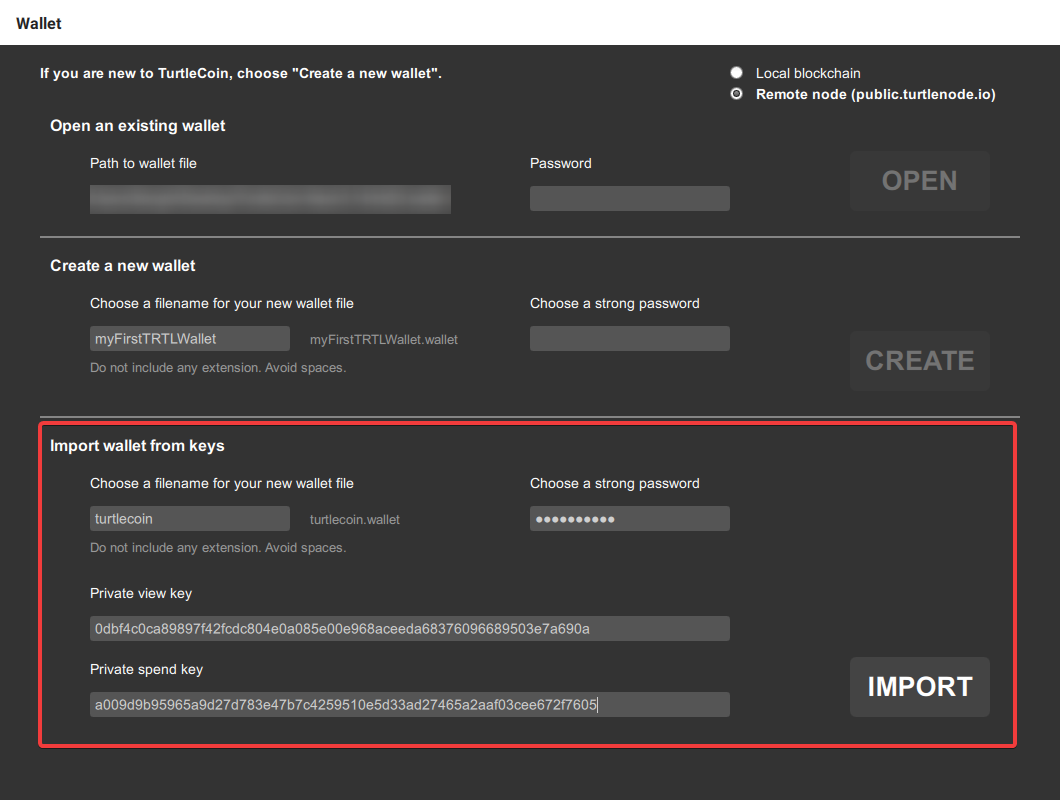
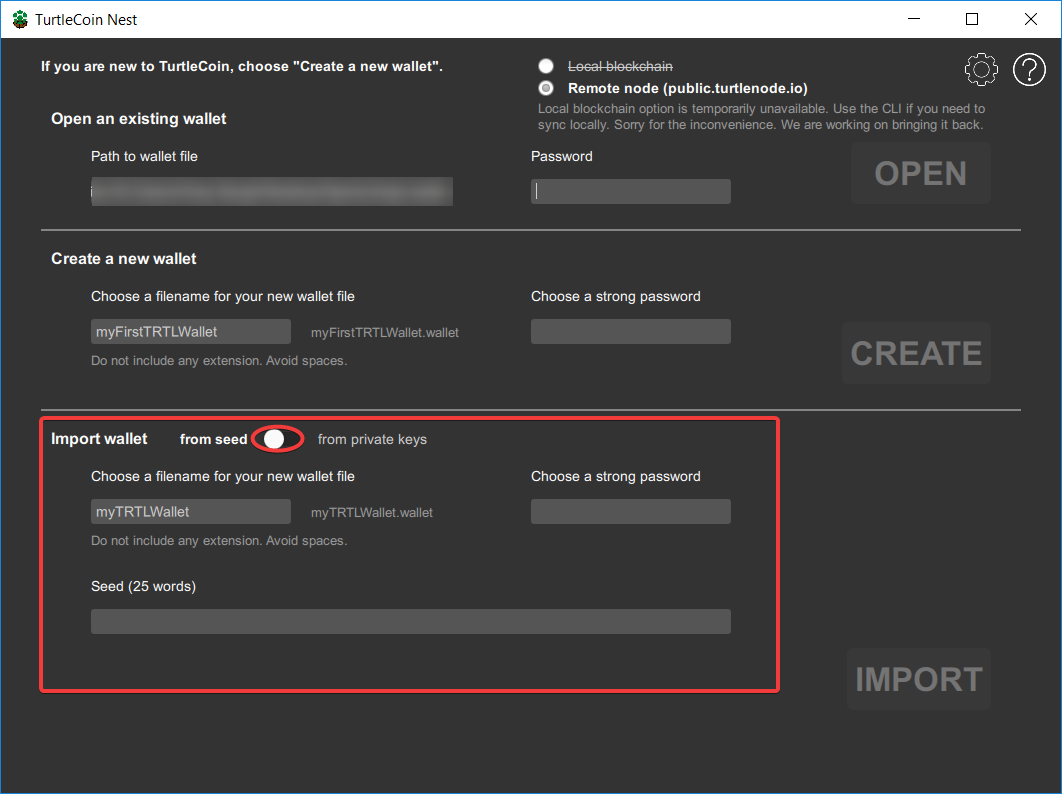
changes to nest
and recovery guide

diff --git a/docs/guides/wallets/recovering-your-wallet.md b/docs/guides/wallets/recovering-your-wallet.md
@@ -18,7 +18,7 @@ View [this guide](Using-zedwallet#private-spend-and-view-keys) for steps on reco
 
 View [this guide](Using-nest-wallet#private-view-and-spend-keys) for steps on recovering your wallet with your private view and spend keys with Nest Wallet.
 
-#### WinForms Wallet<a name="keys-winforms-wallet"></a>
+#### WinForms Wallet [DEFUNCT]<a name="keys-winforms-wallet"></a>
 
 View [this guide](Using-winforms-wallet#private-view-and-spend-keys) for steps on recovering your wallet with your private view and spend keys with WinForms Wallet.
 
@@ -36,20 +36,10 @@ View [this guide](Using-zedwallet#25-word-mnemonic-seed) for steps on recovering
 
 #### Nest Wallet<a name="25-nest-wallet"></a>
 
-You cannot recover your wallet directly with your 25 word mnemonic seed through Nest Wallet, you have to derive the private spend and view keys first. Follow these steps-
-
-- Go to [this paper wallet generator](https://turtlecoin.lol/wallet)
-
-- Click on `Restore keys from seed phrase`
-
-- Enter your 25 word mnemonic seed and press `Restore Keys`
-
-- Your Private View and Spend Keys will be in the bottom-most box, in red.
-
-- Follow [this guide](Using-nest-wallet#private-view-and-spend-keys) for steps on recovering your wallet with your private view and spend keys with Nest Wallet.
+View [this guide](Using-nest-wallet#25-word-mnemonic-seed) for steps on recovering your wallet with your 25 word mnemonic seed with Nest wallet.
 
 
-#### WinForms Wallet<a name="25-winforms-wallet"></a>
+#### WinForms Wallet [DEFUNCT]<a name="25-winforms-wallet"></a>
 
 You cannot recover your wallet directly with your 25 word mnemonic seed through WinForms Wallet, you have to derive the private spend and view keys first. Follow these steps-
 
@@ -62,6 +52,3 @@ You cannot recover your wallet directly with your 25 word mnemonic seed through 
 - Your Private View and Spend Keys will be in the bottom most box, in red.
 
 - Follow [this guide](Using-winforms-wallet#private-view-and-spend-keys) for steps on recovering your wallet with your private view and spend keys with WinForms Wallet.
-
-
-

diff --git a/docs/guides/wallets/Using-nest-wallet.md b/docs/guides/wallets/Using-nest-wallet.md
@@ -9,7 +9,6 @@ Here's a quick image of Nest Wallet in action-
 ## Downloading
 
 Binary distributions can be found [here](https://github.com/turtlecoin/turtle-wallet-go/releases/latest).
-
 Select the appropriate file for the target platform (Windows, Mac, Linux).
 
 Windows and Mac binaries are provided in `.zip` format, while Linux binaries are provided in `.tar.gz` format.
@@ -153,12 +152,23 @@ To safely close the wallet, simply close it as you normally would; by clicking t
 
 ### Recovering Your Wallet
 
+#### 25 Word Mnemonic Seed
+If you want to recover your wallet with your 25 word mnemonic seed, it's pretty easy.
+
+Upon opening Nest Wallet, *in the boxes under `Import wallet`*-
+
+* enter the name you want to give your wallet
+* enter the password you want to encrypt your wallet with
+* enter your 25 word seed in the bottom box
+
+
 #### Private View and Spend Keys
 
 If you want to recover your wallet with your Private View and Spend Key, it is relatively easy.
 
-Upon opening Nest Wallet, *in the boxes under `Import wallet from keys`*-
+Upon opening Nest Wallet, *in the boxes under `Import wallet`*-
 
+* click on the circular button to change to the View/Spend key mode
 * enter the name you want to give your wallet
 * enter the password you want to encrypt your wallet with
 * enter your View and Spend key in the bottom two boxes
@@ -166,7 +176,3 @@ Upon opening Nest Wallet, *in the boxes under `Import wallet from keys`*-
 ![restore](images/nest-recover.png)
 
 Once done, click `IMPORT`. The wallet will be restored and begin syncing with the blockchain.
-
-#### 25 Mnemonic Seed
-
-View [this guide](recovering-your-wallet#25-nest-wallet) for steps on recovering your wallet with your 25 word mnemonic seed.
